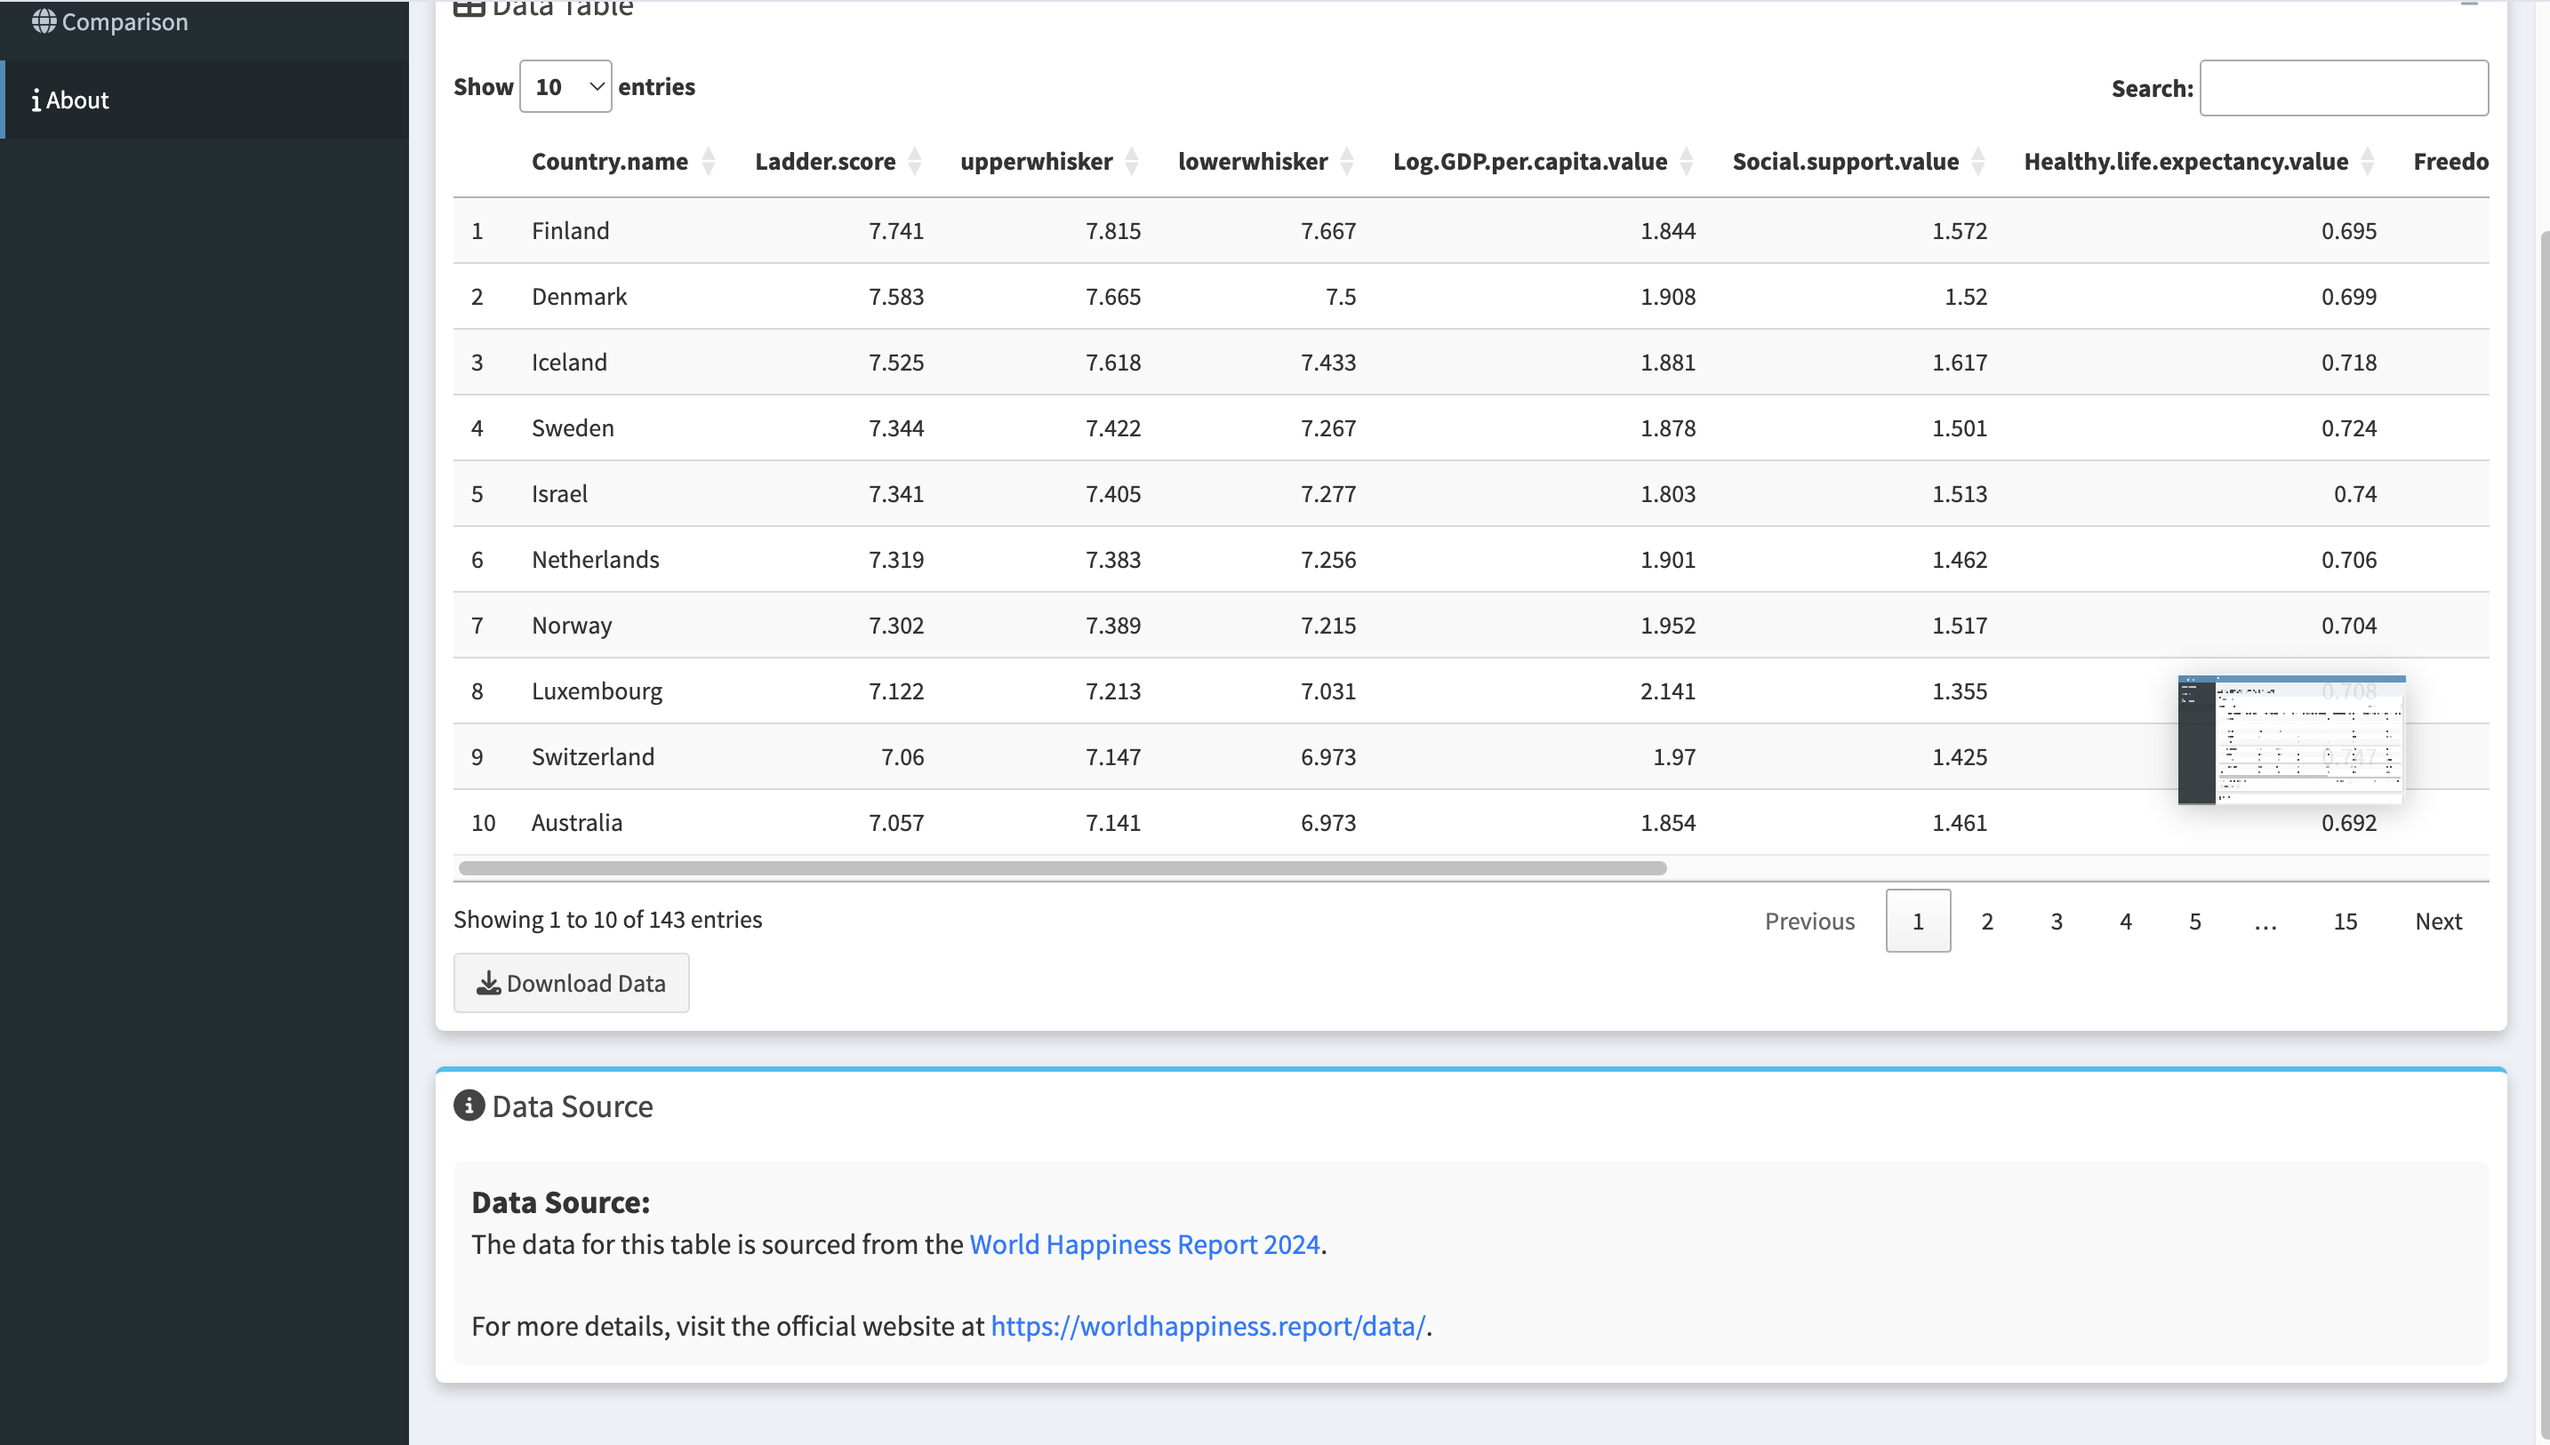
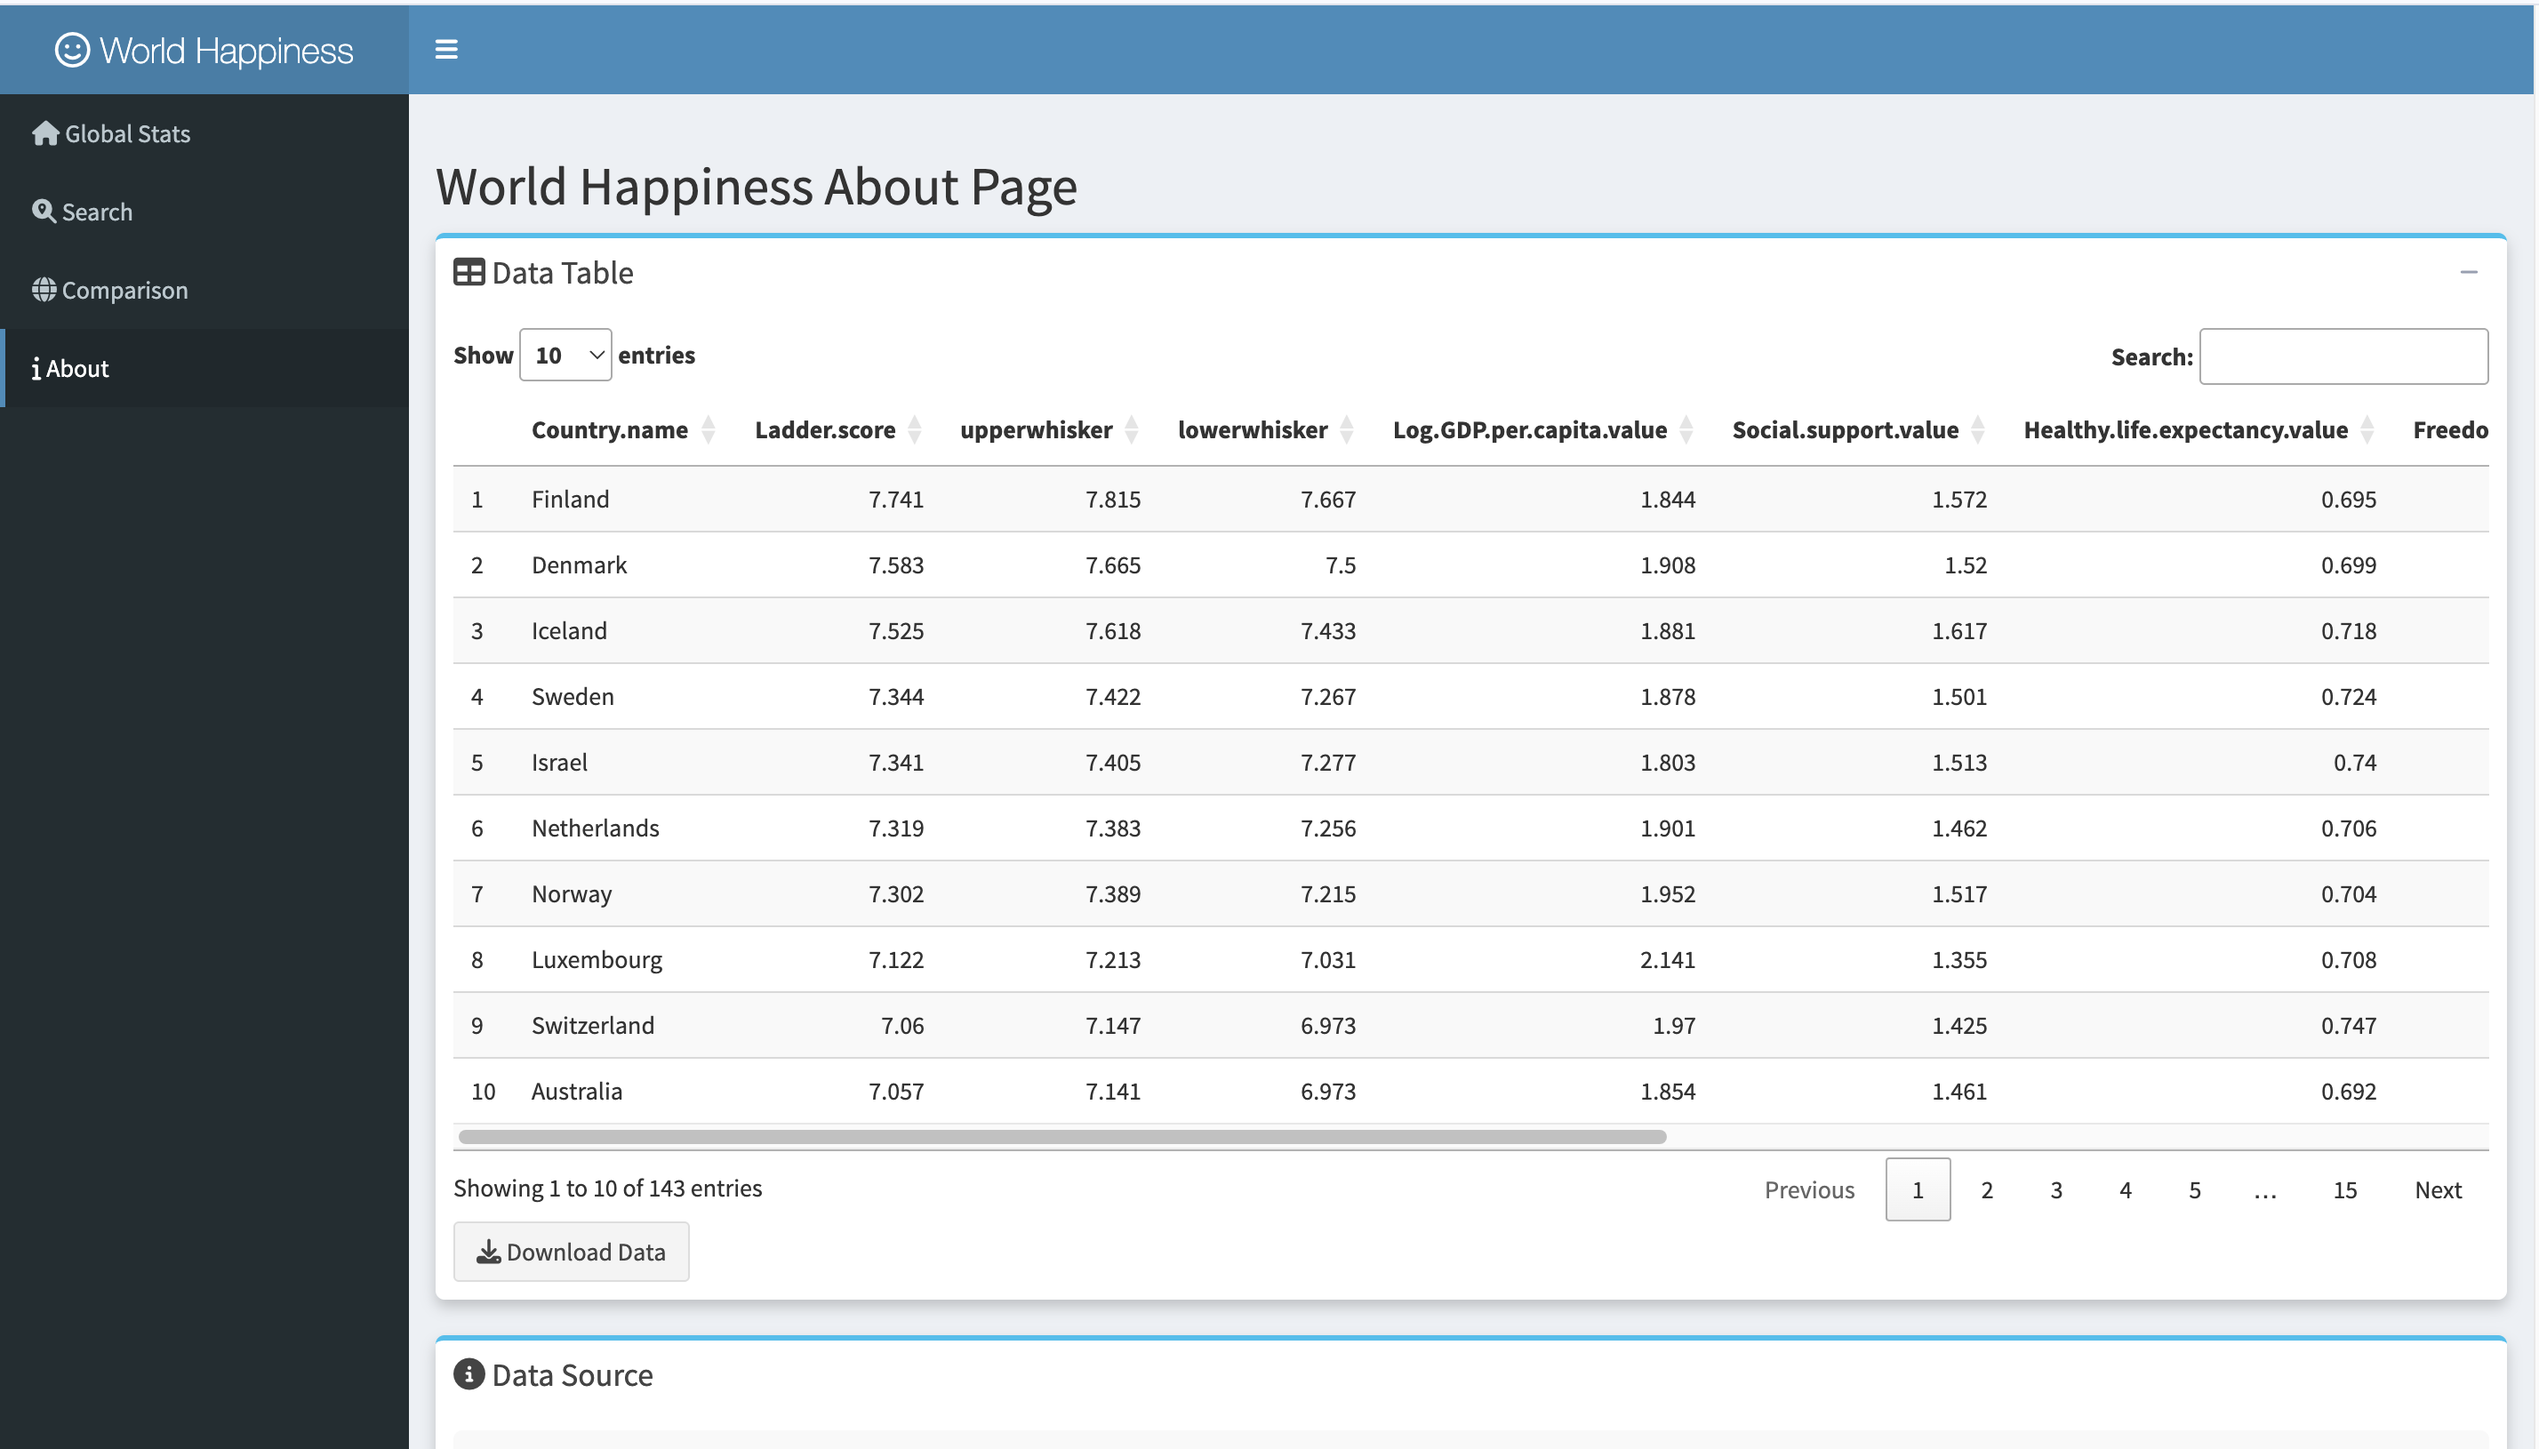
update screenshot and readme

diff --git a/README.md b/README.md
@@ -94,7 +94,7 @@ _Search a country to explore its individual happiness scores._
 _Factor breakdown (GDP, social support, freedom, etc.) for selected country._
 
 ![Ladder Score Trend Line](screenshots/2search-3.png)  
-_Time-series line chart showing happiness score trends._
+_Nine time trend charts showing ladder scores, log GDP per Capital, social support, healthy life expectancy, freedom to make life choices, generosity, pereptions of corruption, positive affect, negative affect._
 
 ---
 
